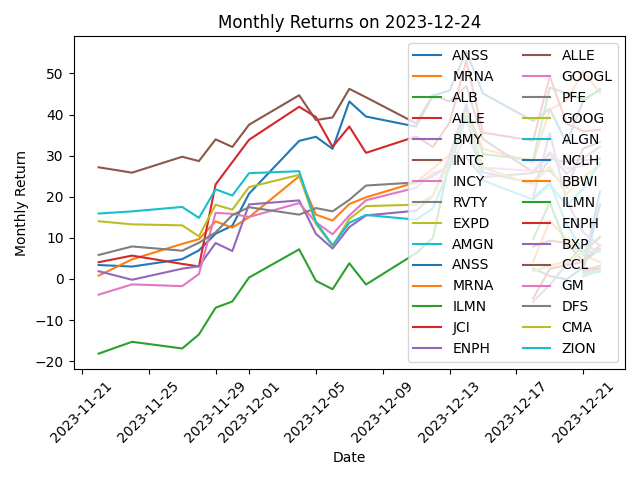
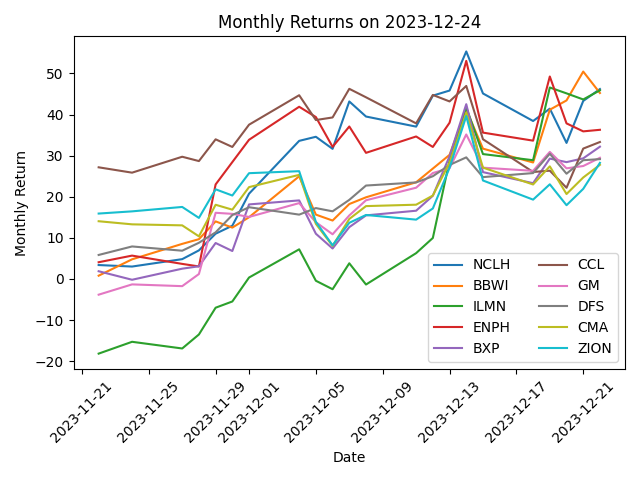
fixed issue of plots overlapping - clear figure of plt

Changed region(s): [[0.625, 0.0938, 0.9688, 0.75], [0.8125, 0.7188, 0.8438, 0.75], [0.8125, 0.0938, 0.8438, 0.125]]

diff --git a/src/daily_performance.py b/src/daily_performance.py
@@ -55,6 +55,7 @@ _FILENAME = '1D_performance.png'
 _full_path = os.path.join(directory, _FILENAME)
 plt.savefig(_full_path)
 #plt.show()
+plt.clf()
 
 # Plot of best performing stocks over 1 Week
 for ticker, ret in one_week_performance.items():
@@ -70,6 +71,7 @@ _FILENAME = '1W_performance.png'
 _full_path = os.path.join(directory, _FILENAME)
 plt.savefig(_full_path)
 #plt.show()
+plt.clf()
 
 # Plot of best performing stocks over 1 Month
 for ticker, ret in one_month_performance.items():
@@ -85,6 +87,7 @@ _FILENAME = '1M_performance.png'
 _full_path = os.path.join(directory, _FILENAME)
 plt.savefig(_full_path)
 #plt.show()
+plt.clf()
 
 # Plot of best performing stocks over 1 Year
 for ticker, ret in one_year_performance.items():
@@ -100,3 +103,4 @@ _FILENAME = '1Y_performance.png'
 _full_path = os.path.join(directory, _FILENAME)
 plt.savefig(_full_path)
 #plt.show()
+plt.clf()
